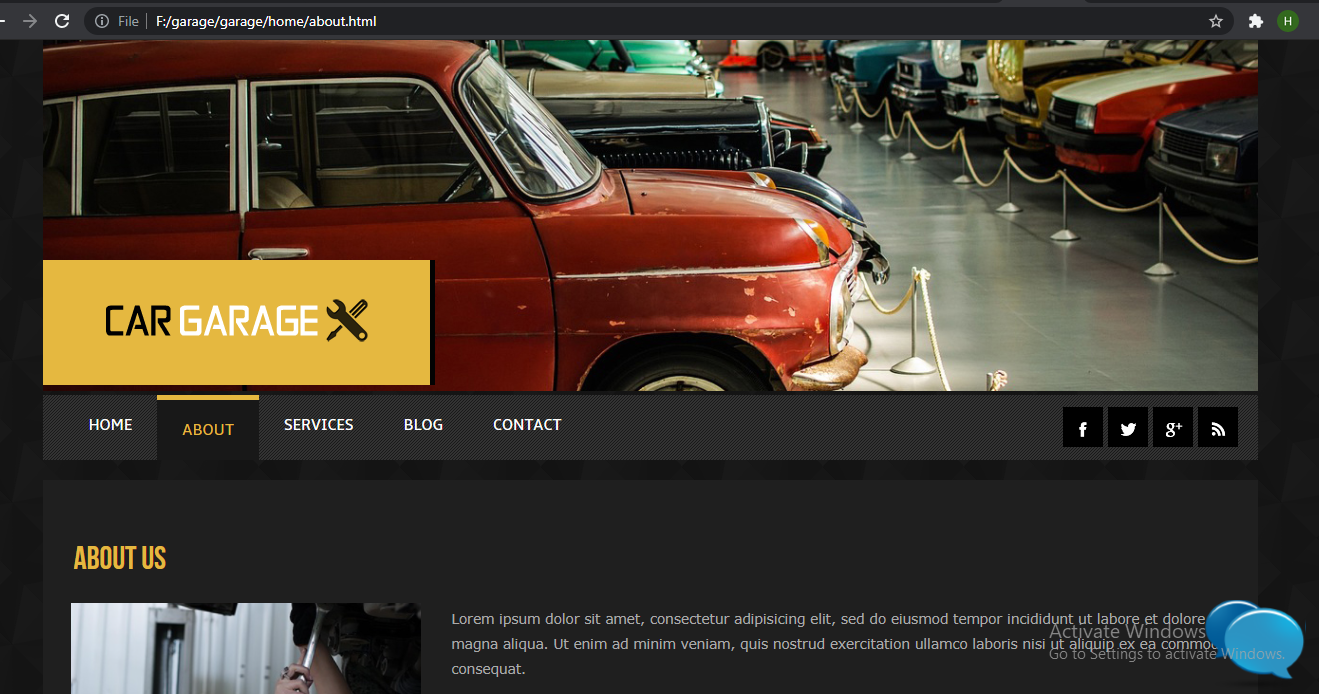
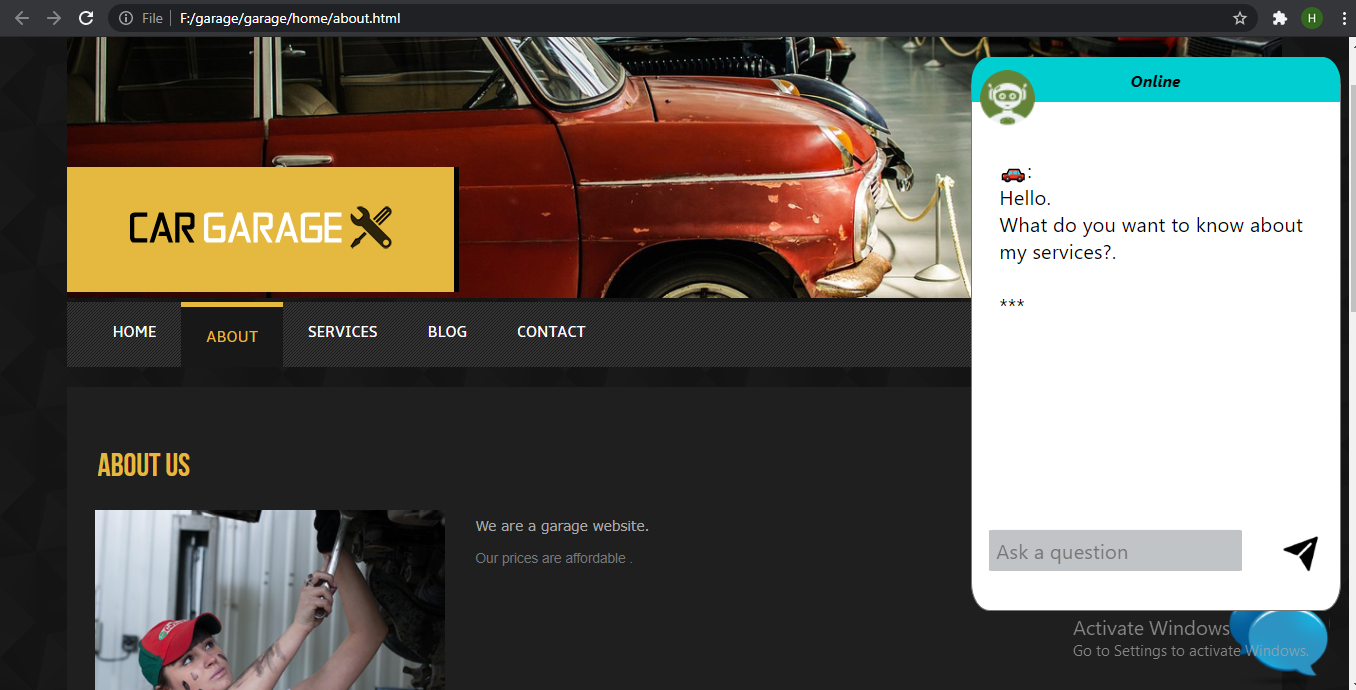
m

diff --git a/about.html b/about.html
@@ -1,3 +1,4 @@
+
 <!DOCTYPE HTML>
 <html>
 <head>
@@ -55,30 +56,29 @@
 						<img src="images/about-img.jpg" alt="" />
 					</div>
 				<div class="desc span_3_of_2">
-					<p><span>Lorem ipsum dolor sit amet, consectetur adipisicing elit, sed do eiusmod tempor incididunt ut labore et dolore magna aliqua. Ut enim ad minim veniam, quis nostrud exercitation ullamco laboris nisi ut aliquip ex ea commodo consequat.</span></p>
-					<p> Duis aute irure dolor in reprehenderit in voluptate velit esse cillum dolore eu fugiat nulla pariatur.</p>
-					<p>Lorem ipsum dolor sit amet, consectetur adipisicing elit, sed do eiusmod tempor incididunt ut labore.Lorem ipsum dolor sit amet, consectetur adipisicing elit, sed do eiusmod tempor incididunt ut labore.Ut enim ad minim veniam, quis nostrud exercitation ullamco laboris nisi ut aliquip ex ea commodo consequat.Lorem ipsum dolor sit amet, consectetur adipisicing elit, sed do eiusmod tempor incididunt ut labore.Lorem ipsum dolor sit amet, consectetur adipisicing elit, sed do eiusmod tempor incididunt ut labore.Ut enim ad minim veniam, quis nostrud exercitation ullamco laboris nisi ut aliquip ex ea commodo consequat.</p>
+					<p><span>We are a garage website.</span></p>
+					<p> Our prices are affordable .</p>
 				</div>
-				 <p>Lorem ipsum dolor sit amet, consectetur adipisicing elit, sed do eiusmod tempor incididunt ut labore.Lorem ipsum dolor sit amet, consectetur adipisicing elit, sed do eiusmod tempor incididunt ut labore.Ut enim ad minim veniam, quis nostrud exercitation ullamco laboris nisi ut aliquip ex ea commodo consequat.Lorem ipsum dolor sit amet, consectetur adipisicing elit, sed do eiusmod tempor incididunt ut labore.Lorem ipsum dolor sit amet, consectetur adipisicing elit, sed do eiusmod tempor incididunt ut labore.Ut enim ad minim veniam, quis nostrud exercitation ullamco laboris nisi ut aliquip ex ea commodo consequat.Lorem ipsum dolor sit amet, consectetur adipisicing elit, sed do eiusmod tempor incididunt ut labore.Lorem ipsum dolor sit amet, consectetur adipisicing elit, sed do eiusmod tempor incididunt ut labore.Ut enim ad minim veniam, quis nostrud exercitation ullamco laboris nisi ut aliquip ex ea commodo consequat.Lorem ipsum dolor sit amet, consectetur adipisicing elit, sed do eiusmod tempor incididunt ut labore.Lorem ipsum dolor sit amet, consectetur adipisicing elit, sed do eiusmod tempor incididunt ut labore.Ut enim ad minim veniam, quis nostrud exercitation ullamco laboris nisi ut aliquip ex ea commodo consequat.</p>
+
 		      </div>	
 				<div class="team">
 					<h2>Management Team</h2>
-					<p>Lorem ipsum dolor sit amet, consectetur adipisicing elit, sed do eiusmod tempor incididunt ut labore.Lorem ipsum dolor sit amet, consectetur adipisicing elit, sed do eiusmod tempor incididunt ut labore.Ut enim ad minim veniam, quis nostrud exercitation ullamco laboris nisi ut aliquip ex ea commodo consequat.Lorem ipsum dolor sit amet, consectetur adipisicing elit, sed do eiusmod tempor incididunt ut labore.Lorem ipsum dolor sit amet, consectetur adipisicing elit, sed do eiusmod tempor incididunt ut labore.Ut enim ad minim veniam, quis nostrud exercitation ullamco laboris nisi ut aliquip ex ea commodo consequat.</p>
+					<p>Manager.</p>
 				    <div class="section group">
 				<div class="grid_1_of_3 images_1_of_3">
 					  <img src="images/management-1.jpg" alt="" />
 					  <h3>Jacalyn Markel</h3>
-					  <p>Lorem ipsum dolor sit amet, consectetur adipisicing elit, sed do eiusmod tempor incididunt ut labore et dolore magna aliqua.Lorem ipsum dolor sit amet, consectetur adipisicing elit, sed do eiusmod tempor ut labore.</p>
+					  <p>Senior manager.</p>
 				</div>
 				<div class="grid_1_of_3 images_1_of_3">
 					  <img src="images/management-2.jpg" alt="" />
 					  <h3>Steven Burge</h3>
-					  <p>Lorem ipsum dolor sit amet, consectetur adipisicing elit, sed do eiusmod tempor incididunt ut labore et dolore magna aliqua.Lorem ipsum dolor sit amet, consectetur adipisicing elit, sed do eiusmod tempor ut labore.</p>
+					  <p>C.E.O.</p>
 				</div>
 				<div class="grid_1_of_3 images_1_of_3">
 					  <img src="images/management-3.jpg" alt="" />
 					  <h3>Jon Mackenzie </h3>
-					  <p>Lorem ipsum dolor sit amet, consectetur adipisicing elit, sed do eiusmod tempor incididunt ut labore et dolore magna aliqua.Lorem ipsum dolor sit amet, consectetur adipisicing elit, sed do eiusmod tempor ut labore.</p>
+					  <p>Supervisor.</p>
 				   </div>
 			     </div>
 			  <div class="clear"></div>
@@ -173,25 +173,31 @@
 					 </script>
 			</button>
 		</div>
+		
 		//CHATBOT TEXT AREA
-		<div  style="text-align:center;visibility: hidden;overflow: hidden;border-radius: 5%;" id="bot1" > 
+		<div  style="position: fixed; text-align:center;visibility: hidden;overflow: hidden;border-radius: 5%;background-color: darkcyan;padding-top: 5%;" id="bot1" > 
 			<textarea readonly="true" id="botChat" aria-selected="false" 
-				style="text-align:left; position:fixed; display:block;border-top-width: 27px; top:3vh; border-radius: 5%; width: 23vw; margin-left:72%; margin-right:5%;padding-left: 2%;padding-right: 2%;padding-top: 2%;padding-bottom: 5%; height:63vh; resize:none; font-family:'Segoe UI', Tahoma, Geneva, Verdana, sans-serif; overflow-y:auto; user-select:none; font-size:1.5vw;">
+				style="text-align:left ; position:fixed; display:block;border-top-color: darkturquoise; border-top-width: 45px; top:3vh; border-radius: 5%; width: 23vw; margin-left:72%; margin-right:5%;padding-left: 2%;padding-right: 2%;padding-top: 2%;padding-bottom: 5%; height:63vh; resize:none; font-family:'Segoe UI', Tahoma, Geneva, Verdana, sans-serif; overflow-y:auto; user-select:none; font-size:1.5vw;">
 			</textarea> 
 		//CHATBOT TYPING AREA       
-		<div style="position:fixed;border-top-width: 5px;border-top-color: darkslategray; padding: 1%; top:73vh; width:25vw ;margin-left:72%; margin-right:5%">        
+		<div style="position:fixed;border-top-width: 45px;border-top-color: darkslategray; padding: 1%; top:73vh; width:25vw ;margin-left:72%; margin-right:5%">      
 			<input type="text" placeholder="Ask a question"  onKeypress="enterButton(event, document.getElementsByTagName('input')[0].value);" 
 				style="color:blue;background-color:hsla(198, 7%, 36%, 0.363);border-radius: 2%;padding:2%; width:70%;font-size: 1.5vw;font-family: 'Segoe UI', Tahoma, Geneva, Verdana, sans-serif;border-width: 0px;">         
 					<button style="height: 3vw;background: url(images/send.png);margin-left: 10%;margin-bottom: 2%; background-repeat: no-repeat;border-width: 0px;color:transparent;"  
 						onClick="answer(document.getElementsByTagName('input')[0].value)">send
 					</button>
+					
+		</div>
+		<div style="position:fixed;border-bottom-left-radius: 5%;border-bottom-right-radius:5% ;  padding: 1%; top:3vh; width:25vw ;margin-left:72%; margin-right:5%; ">
+			<img src="images/bot.png" alt="" style="position:fixed;  width:4vw ;border-radius: 50%;margin-left: -13%;margin-right: 95%;"/>
+				<p style=" font-weight: bold;font-style: italic;font-family: 'Segoe UI', Tahoma, Geneva, Verdana, sans-serif;">Online</p>
 		</div>       
 		<script>
    
   			var you = "Me";
-   
-  			 		botSays("\n🚗: \nHello.\nWhat do you want to know about my services?.\n\n***")
-   
+					
+  			 		botSays("\n🚗:\nHello.\nWhat do you want to know about my services?.\n\n***")
+					
 			   // Recognized Speech Patterns for Question Responses
    
    			var Hello = ["HI", "HEY", "HOWDY", "HEYA", "HOLA", "HELLO", "SUP", "KONNICHIWA", "ALOHA"]
@@ -261,7 +267,10 @@
    
 				   else if (question.slice(0,10).includes("!TUTORIAL") ) {
    
-					   botSays("\n\n**This presentation is my tutorial."); botChat.scrollTop = botChat.scrollHeight;
+					   botSays("\n\n**This presentation is my tutorial."); 
+					
+					  
+					  
    
 				   return;
    
